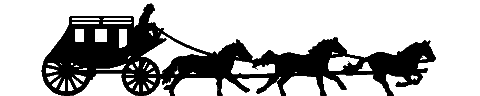
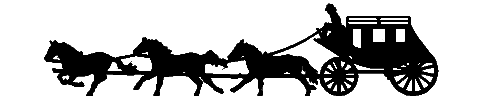
Successfully imported old stagecoach.png into AppHeader -- needs a lot of love on position an size though

Changed region(s): [[0.0625, 0.0312, 0.9375, 1.0]]

diff --git a/src/styles/app/AppHeader.css b/src/styles/app/AppHeader.css
@@ -29,6 +29,17 @@
   grid-row: 2
 }
 
+#div-stageoach-png {
+  grid-column: 2;
+  grid-row: 1 / span 2;
+  width: 75%;
+  margin: 0 auto;
+  background-size: cover;
+  background-repeat: no-repeat;
+  background-position: center center;
+  background-image: url(../../assets/images/stagecoach.png)
+}
+
 #app-nav {
   grid-row: 3 / 5;
   grid-column: 2;

diff --git a/src/components/app/AppHeader.jsx b/src/components/app/AppHeader.jsx
@@ -10,6 +10,7 @@ import '../../styles/app/AppHeader.css';
 
 export const AppHeader = () => (
   <header id="app-header">
+    <div id="div-stageoach-png" />
     <h2 id="app-header-h2">Stagecoach Meat Co.</h2>
     <h5 id="app-header-h5">Wiggins, Colorado &bull; 970-483-7280</h5>
     <div id="div-empty" />

diff --git a/src/styles/pages/PageFAQ.css b/src/styles/pages/PageFAQ.css
@@ -26,7 +26,8 @@
   margin: 8px;
   border-radius: 4px;
   border: 1px #555555 solid;
-  background: #B5651D44
+  background: #B5651D44;
+  overflow: hidden
 }
 
 #ul-faq-list {
@@ -46,7 +47,7 @@
 .q {
   align-self: stretch;
   justify-self: stretch;
-  background: #CC8400
+  background: #E59400
 }
 
 .a {
